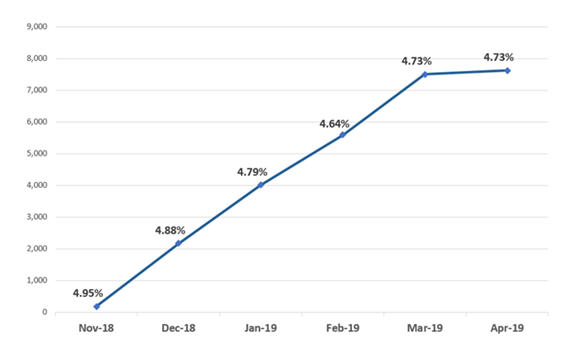
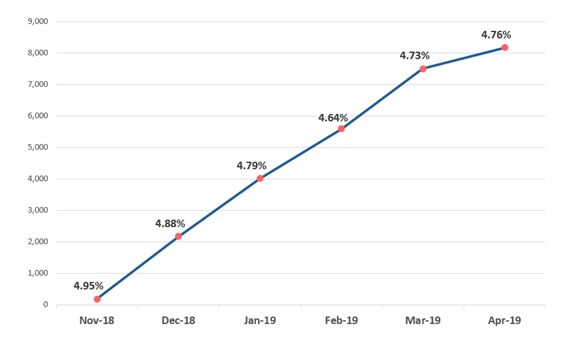
Commit of Content/Products.htm,Content/Resources/Images/Frailty graph.png,Project/Targets/HTML5 - Top Navigation.fltar

diff --git a/Content/Products.htm b/Content/Products.htm
@@ -27,7 +27,7 @@
                 <ul>
                     <li class="bullets"><a href="NHS 111 Discovery frailty flagging.htm" id="NHS111project">NHS 111 project </a>
                         <br />Since the API went live in November 2018, the Discovery Data Service has: 
-						<li class="bullets2">handled 392,528 API requests.</li><li class="bullets2">matched 161,397 patients.</li><li class="bullets2">flagged 7,628 potentially frail patients.</li><li class="bullets2">Latest update: 3 April 2019.</li><li class="bullets2"><a href="Popups/Frailty graph.htm" class="MCTopicPopup MCTopicPopupHotSpot MCXref xref" MadCap:width="750px" MadCap:height="750px">Monthly totals</a></li></li>
+						<li class="bullets2">handled 420,951 API requests.</li><li class="bullets2">matched 171,737 patients.</li><li class="bullets2">flagged 8,177 potentially frail patients.</li><li class="bullets2"><a href="Popups/Frailty graph.htm" class="MCTopicPopup MCTopicPopupHotSpot MCXref xref" MadCap:width="750px" MadCap:height="750px">Monthly totals</a></li><li class="bullets2">Latest update: 12 April 2019.</li></li>
                 </ul>
             </div>
             <div class="column">
@@ -36,8 +36,8 @@
 				The Data Extract tool provides access to defined populations and data sets to enable local organisations to interrogate the data using their preferred analytical tools.</p>
                 <h2>Live extract projects</h2>
                 <ul>
-                    <li class="bullets">Whole Systems Data Project (WSDP)
-                    </li>
+                    <li class="bullets"><a href="WSDP.htm">Whole Systems Data Project (WSDP)</a><![CDATA[
+                    ]]></li>
                 </ul>
             </div>
             <div class="column">
